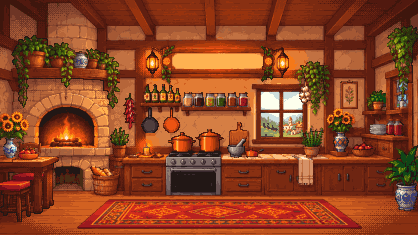
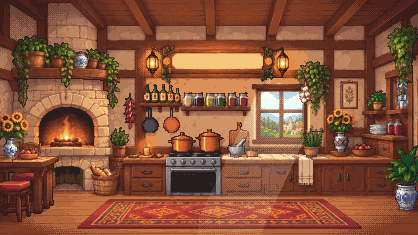
Day and night: a real morning look, an afternoon version, and the window sun moves with the hour
Morning is now pale and hazy with cooler shadows, golden highlights and beams of low sunlight across the floor.
The Middle Eastern window's sun is painted out and drawn again where each hour puts it (low left, high, low right
behind the domes, a crescent moon at night), always behind the buildings. Four versions per kitchen.

diff --git a/design/pixel-art/day_night.py b/design/pixel-art/day_night.py
@@ -1,15 +1,18 @@
-"""Day and night for the v5 kitchens: morning, evening and night versions of each traced kitchen.
+"""Day and night for the v5 kitchens: morning, afternoon, evening and night versions of each traced kitchen.
 
-Starts from the finished day kitchen (drafts/traced-kitchens/<name>/<name>.png, left as it is) and changes the
-light, not the drawing:
-  - the room takes the light of the hour (a tint and a brightness);
+Starts from the finished kitchen (drafts/traced-kitchens/<name>/<name>.png, left as it is) and changes the light,
+not the drawing:
+  - the room takes the light of the hour. Morning is fresh: shadows a little cooler, highlights golden, and beams of
+    low sunlight slanting in from the windows. Evening is warm, with long orange beams. Night is dark blue;
   - what is seen through the windows (sky, trees, town) gets the sky of the hour; at night, stars;
-  - the lanterns (every traced object named lantern or lamp, from scene.json), the fire and candles keep the room
-    lit around them: warm glows that fade out in dithered bands, the pixel-art way. They are off in the morning,
+  - a sun drawn in a window is moved to where the hour puts it (low on the left in the morning, high in the
+    afternoon, low on the right in the evening) and becomes a moon at night, always behind the window's buildings;
+  - the lanterns (every traced object named lantern or lamp, from scene.json), the fire and candles light the room
+    around them: warm glows that fade out in dithered bands, the pixel-art way. Off in the morning and afternoon,
     half on in the evening, full at night;
   - each picture is put back on a palette of its own (64 colors), so it stays pixel art.
 
-    python design/pixel-art/day_night.py   ->   drafts/traced-kitchens/<name>/<name>_<time>.png, compare_day_night.png
+    python design/pixel-art/day_night.py   ->   drafts/traced-kitchens/<name>/<name>_<hour>.png, compare_day_night.png
 """
 from __future__ import annotations
 
@@ -34,15 +37,27 @@ WINDOWS = {
     "mexican": [(70, 110, 330, 560), (1025, 280, 1235, 495)],
     "middle_eastern": [(0, 250, 140, 620), (1065, 230, 1250, 510)],
 }
+# A sun drawn in a window: where it is (x, y on the pixel grid), its radius, and where each hour puts it
+SUNS = {
+    "middle_eastern": {"at": (277, 100), "radius": 6,
+                       "morning": (275, 108), "afternoon": (289, 72), "evening": (301, 90), "night": (300, 70)},
+}
 # Lights that are no traced object: fire and candles (x, y, reach) on the original; lanterns come from scene.json
 FLAMES = {"mediterranean": [(265, 530, 420), (583, 595, 110)]}
 LANTERN_REACH = 230
 
-# The hours: room tint (r, g, b multipliers), sky color and how much of it, lights (0 off to 1 full)
-TIMES = {
-    "morning": {"room": (1.04, 0.98, 0.92), "sky": (255, 214, 170), "sky_mix": 0.45, "lights": 0.0, "stars": False},
-    "evening": {"room": (0.92, 0.74, 0.62), "sky": (240, 120, 90), "sky_mix": 0.6, "lights": 0.6, "stars": False},
-    "night": {"room": (0.36, 0.40, 0.62), "sky": (22, 30, 70), "sky_mix": 0.85, "lights": 1.0, "stars": True},
+# The hours. room: color multipliers; cool: how much the shadows turn blue; gold: how much the highlights turn
+# golden; beams: color and strength of the sunlight slanting in (none at night); sky: its color and how much of it;
+# sun: the sun's color (None leaves it as drawn); lights: the lanterns and flames, 0 off to 1 full.
+TIMES: dict[str, dict] = {
+    "morning": {"room": (1.08, 1.07, 1.04), "cool": 0.55, "gold": 0.3, "haze": 0.22, "beams": ((255, 240, 200), 0.5),
+                "sky": (255, 222, 190), "sky_mix": 0.35, "sun": (255, 246, 214), "lights": 0.0, "stars": False},
+    "afternoon": {"room": (1.0, 1.0, 1.0), "cool": 0.0, "gold": 0.0, "beams": None,
+                  "sky": (150, 200, 245), "sky_mix": 0.0, "sun": (255, 250, 228), "lights": 0.0, "stars": False},
+    "evening": {"room": (0.92, 0.76, 0.64), "cool": 0.0, "gold": 0.0, "beams": ((255, 150, 80), 0.28),
+                "sky": (240, 120, 90), "sky_mix": 0.6, "sun": (255, 214, 130), "lights": 0.6, "stars": False},
+    "night": {"room": (0.36, 0.40, 0.62), "cool": 0.0, "gold": 0.0, "beams": None,
+              "sky": (22, 30, 70), "sky_mix": 0.85, "sun": (226, 232, 240), "lights": 1.0, "stars": True},
 }
 
 
@@ -57,6 +72,52 @@ def outdoors(img: np.ndarray, boxes: list[tuple[int, int, int, int]]) -> np.ndar
     for x0, y0, x1, y1 in boxes:
         mask[y0 // SCALE:y1 // SCALE, x0 // SCALE:x1 // SCALE] = True
     return mask & looks_out
+
+
+def move_sun(name: str, img: np.ndarray, time: str) -> np.ndarray:
+    """Paint the window's sun out of the sky and draw it again where the hour puts it, in the hour's color. It is
+    drawn only on sky (light pixels), so the buildings in front of it stay in front."""
+    sun = SUNS.get(name)
+    if not sun:
+        return img
+    (x, y), r = sun["at"], sun["radius"]
+    disc = np.zeros(img.shape[:2], np.uint8)
+    cv2.circle(disc, (x, y), r + 1, 255, -1)
+    sky = cv2.inpaint(img, disc, 4, cv2.INPAINT_TELEA)                  # the sky without the sun
+    nx, ny = sun[time]
+    color = np.array(TIMES[time]["sun"], np.float32)
+    yy, xx = np.mgrid[0:img.shape[0], 0:img.shape[1]]
+    dist = np.hypot(xx - nx, yy - ny)
+    is_sky = sky.mean(axis=2) > 150                                     # buildings are darker: they stay in front
+    out = sky.astype(np.float32)
+    halo = np.clip(1 - (dist - r) / (r * 1.6), 0, 1) * 0.35 * is_sky    # a soft ring of light around it
+    out = out * (1 - halo[..., None]) + color * halo[..., None]
+    core = (dist <= r) & is_sky
+    out[core] = color
+    if time == "night":                                                 # a crescent: a darker bite out of the moon
+        out[(np.hypot(xx - nx - r * 0.6, yy - ny + r * 0.3) <= r * 0.85) & core] = sky[(np.hypot(
+            xx - nx - r * 0.6, yy - ny + r * 0.3) <= r * 0.85) & core]
+    return np.clip(out, 0, 255).astype(np.uint8)
+
+
+def beams(boxes: list[tuple[int, int, int, int]], shape: tuple[int, int], sun_left: bool) -> np.ndarray:
+    """Shafts of low sunlight: each window's opening slid down and across the room, the way a low sun throws it,
+    strongest near the window and fading out, in dithered bands."""
+    h, w = shape
+    light = np.zeros(shape, np.float32)
+    for x0, y0, x1, y1 in boxes:
+        x0, y0, x1, y1 = x0 // SCALE, y0 // SCALE, x1 // SCALE, y1 // SCALE
+        dx = (1 if (x0 + x1) / 2 < w / 2 else -1) * (60 if sun_left else 45)   # away from the window's wall
+        corners = np.array([[x0, y0], [x1, y0], [x1, y1], [x0, y1]], np.float32)
+        far = corners + np.array([dx, 0.55 * h], np.float32)
+        hull = cv2.convexHull(np.vstack([corners, far]).astype(np.int32))
+        shaft = np.zeros(shape, np.uint8)
+        cv2.fillConvexPoly(shaft, hull, 1)
+        yy, xx = np.mgrid[0:h, 0:w]
+        along = np.clip(np.hypot(xx - (x0 + x1) / 2, yy - (y0 + y1) / 2) / (0.75 * h), 0, 1)
+        light = np.maximum(light, shaft * (1 - along))
+    dither = np.tile(BAYER, (h // 4 + 1, w // 4 + 1))[:h, :w]
+    return np.floor(light * 3 + dither * 0.9) / 3
 
 
 def lights_of(name: str) -> list[tuple[float, float, float]]:
@@ -101,22 +162,40 @@ def palette_of(img: np.ndarray, k: int) -> np.ndarray:
 def hour(name: str, day: np.ndarray, time: str) -> np.ndarray:
     t = TIMES[time]
     h, w = day.shape[:2]
-    img = day.astype(np.float32)
-    room = np.clip(img * np.array(t["room"], np.float32), 0, 255)
     out_mask = outdoors(day, WINDOWS.get(name, []))
+    base = move_sun(name, day, time)
+    img = base.astype(np.float32)
+    room = np.clip(img * np.array(t["room"], np.float32), 0, 255)
+    lum = (img.mean(axis=2, keepdims=True) / 255)
+    if t["cool"]:                                                       # cooler shadows
+        cool = room * np.array((0.86, 0.93, 1.1), np.float32)
+        room = room + (cool - room) * (t["cool"] * (1 - lum) ** 2)
+    if t.get("haze"):                                                   # morning haze: softer, paler colors
+        pale = room.mean(axis=2, keepdims=True) * np.array((1.04, 1.03, 1.06), np.float32) + 20
+        room = room + (pale - room) * t["haze"]
+    if t["gold"]:                                                       # golden highlights
+        room = room + (np.array((255, 232, 190), np.float32) - room) * (t["gold"] * lum ** 3)
+    if t["beams"]:
+        color, strength = t["beams"]
+        shaft = beams(WINDOWS.get(name, []), (h, w), time == "morning")[..., None] * strength
+        room = room + (np.array(color, np.float32) - room) * shaft * (0.4 + lum)
     sky = np.array(t["sky"], np.float32)
-    shade = img.mean(axis=2, keepdims=True) / 255                      # keep the outdoor shapes readable
-    outside = img * (1 - t["sky_mix"]) + sky * t["sky_mix"] * (0.55 + 0.9 * shade)
+    outside = img * (1 - t["sky_mix"]) + sky * t["sky_mix"] * (0.55 + 0.9 * lum)
     if t["stars"]:
         rng = np.random.default_rng(len(name))
         stars = (rng.random((h, w)) < 0.012) & out_mask & (img.mean(axis=2) > 120)
         outside[stars] = (255, 246, 210)
     result = np.where(out_mask[..., None], outside, room)
+    if name in SUNS:                                                    # the sun or moon itself stays as drawn
+        (nx, ny), r = SUNS[name][time], SUNS[name]["radius"]
+        yy, xx = np.mgrid[0:h, 0:w]
+        disc = (np.hypot(xx - nx, yy - ny) <= r)[..., None]
+        result = np.where(disc, img, result)
     if t["lights"] > 0:                                                 # warm lamplight brings the day colors back
         glow = glow_of(lights_of(name), (h, w))[..., None] * t["lights"] * ~out_mask[..., None]
-        warm = np.clip(img * np.array((1.12, 1.0, 0.82), np.float32), 0, 255)
+        warm = np.clip(day.astype(np.float32) * np.array((1.12, 1.0, 0.82), np.float32), 0, 255)
         result = result * (1 - glow) + warm * glow
-        result = np.where(lamp_mask(name, (h, w))[..., None], img, result)   # the lanterns stay bright
+        result = np.where(lamp_mask(name, (h, w))[..., None], day, result)   # the lanterns stay bright
     return palette_of(np.clip(result, 0, 255).astype(np.uint8), COLORS)
 
 
@@ -125,17 +204,17 @@ def main(names: list[str]) -> None:
     for name in names:
         folder = TRACED / name
         day = np.array(Image.open(folder / f"{name}.png").convert("RGB"))
-        versions = {"morning": hour(name, day, "morning"), "day": day,
-                    "evening": hour(name, day, "evening"), "night": hour(name, day, "night")}
-        for time, img in versions.items():
-            if time == "day":
-                continue
+        versions = {}
+        for time in TIMES:
+            # the afternoon is the v5 kitchen itself, unless its sun has to move
+            img = day if time == "afternoon" and name not in SUNS else hour(name, day, time)
+            versions[time] = img
             Image.fromarray(img).save(folder / f"{name}_{time}.png")
             Image.fromarray(img).resize((img.shape[1] * 4, img.shape[0] * 4), Image.NEAREST).save(folder / f"{name}_{time}_x4.png")
         row = np.concatenate([np.pad(np.kron(v, np.ones((2, 2, 1), np.uint8)), ((0, 0), (0, 6), (0, 0)), constant_values=255)
                               for v in versions.values()], axis=1)
         rows.append(np.pad(row, ((0, 6), (0, 0), (0, 0)), constant_values=255))
-        print(f"{name}: morning, evening, night written to {folder}")
+        print(f"{name}: {', '.join(versions)} written to {folder}")
     Image.fromarray(np.concatenate(rows, axis=0)).save(TRACED / "compare_day_night.png")
 
 
